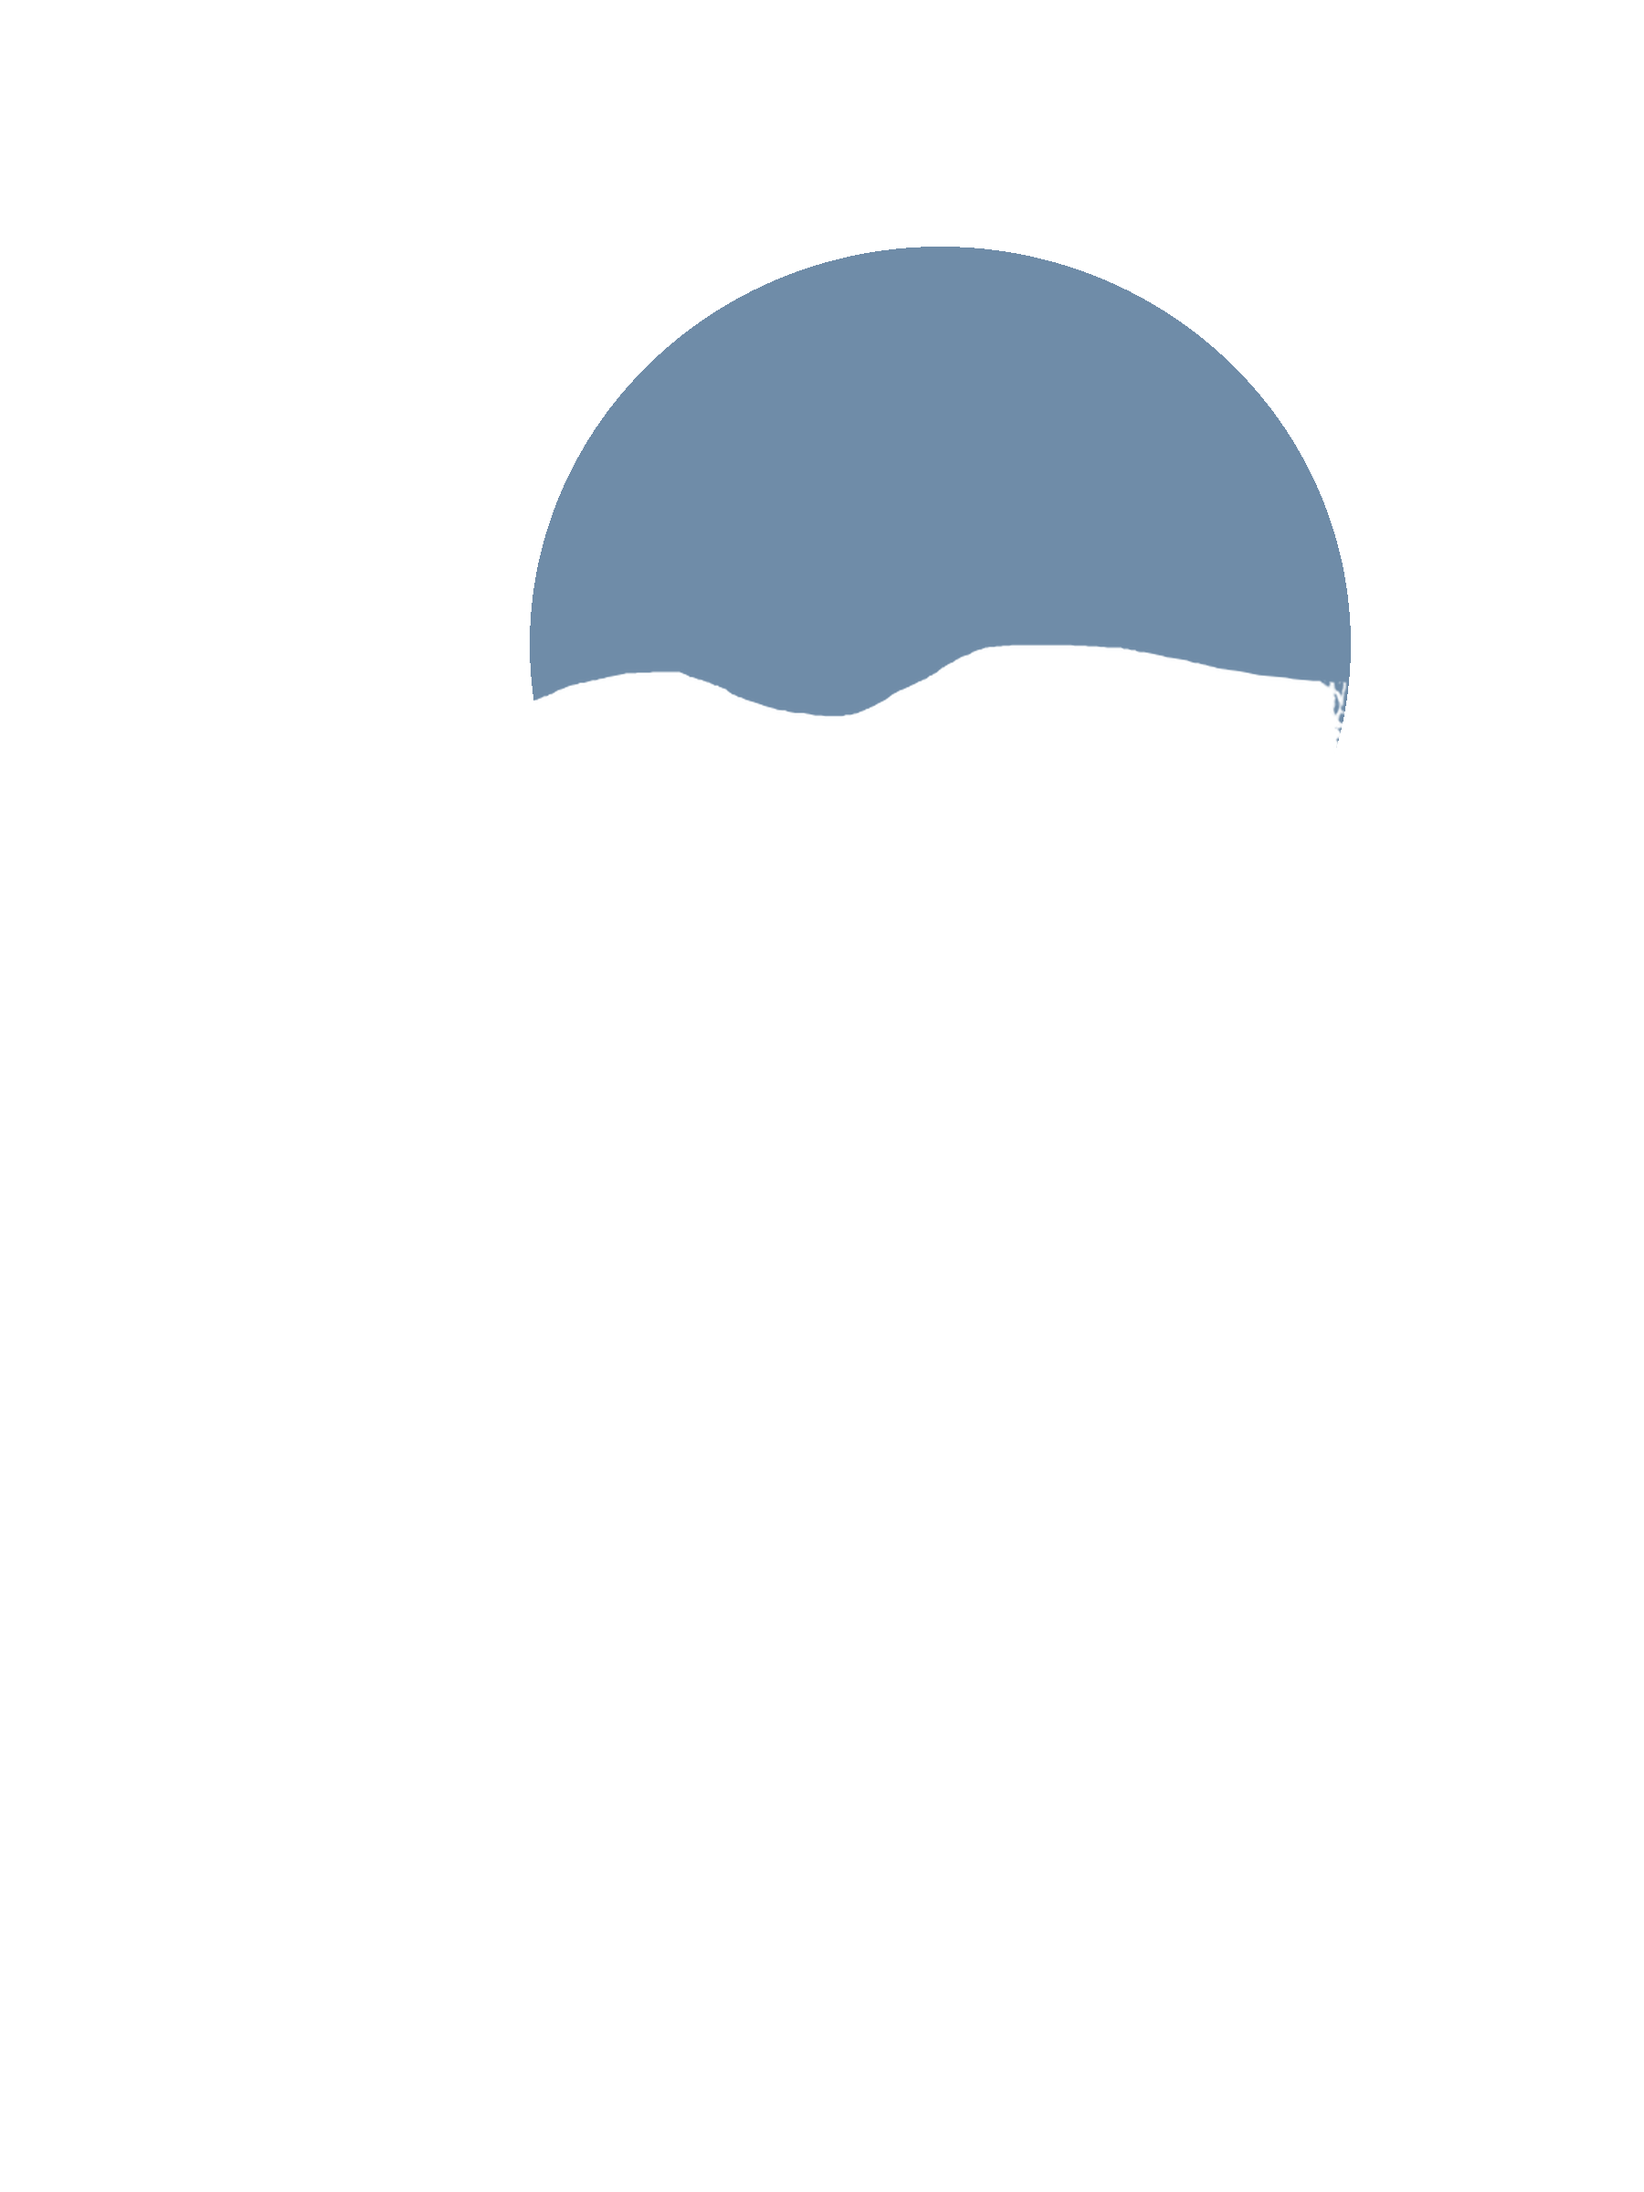
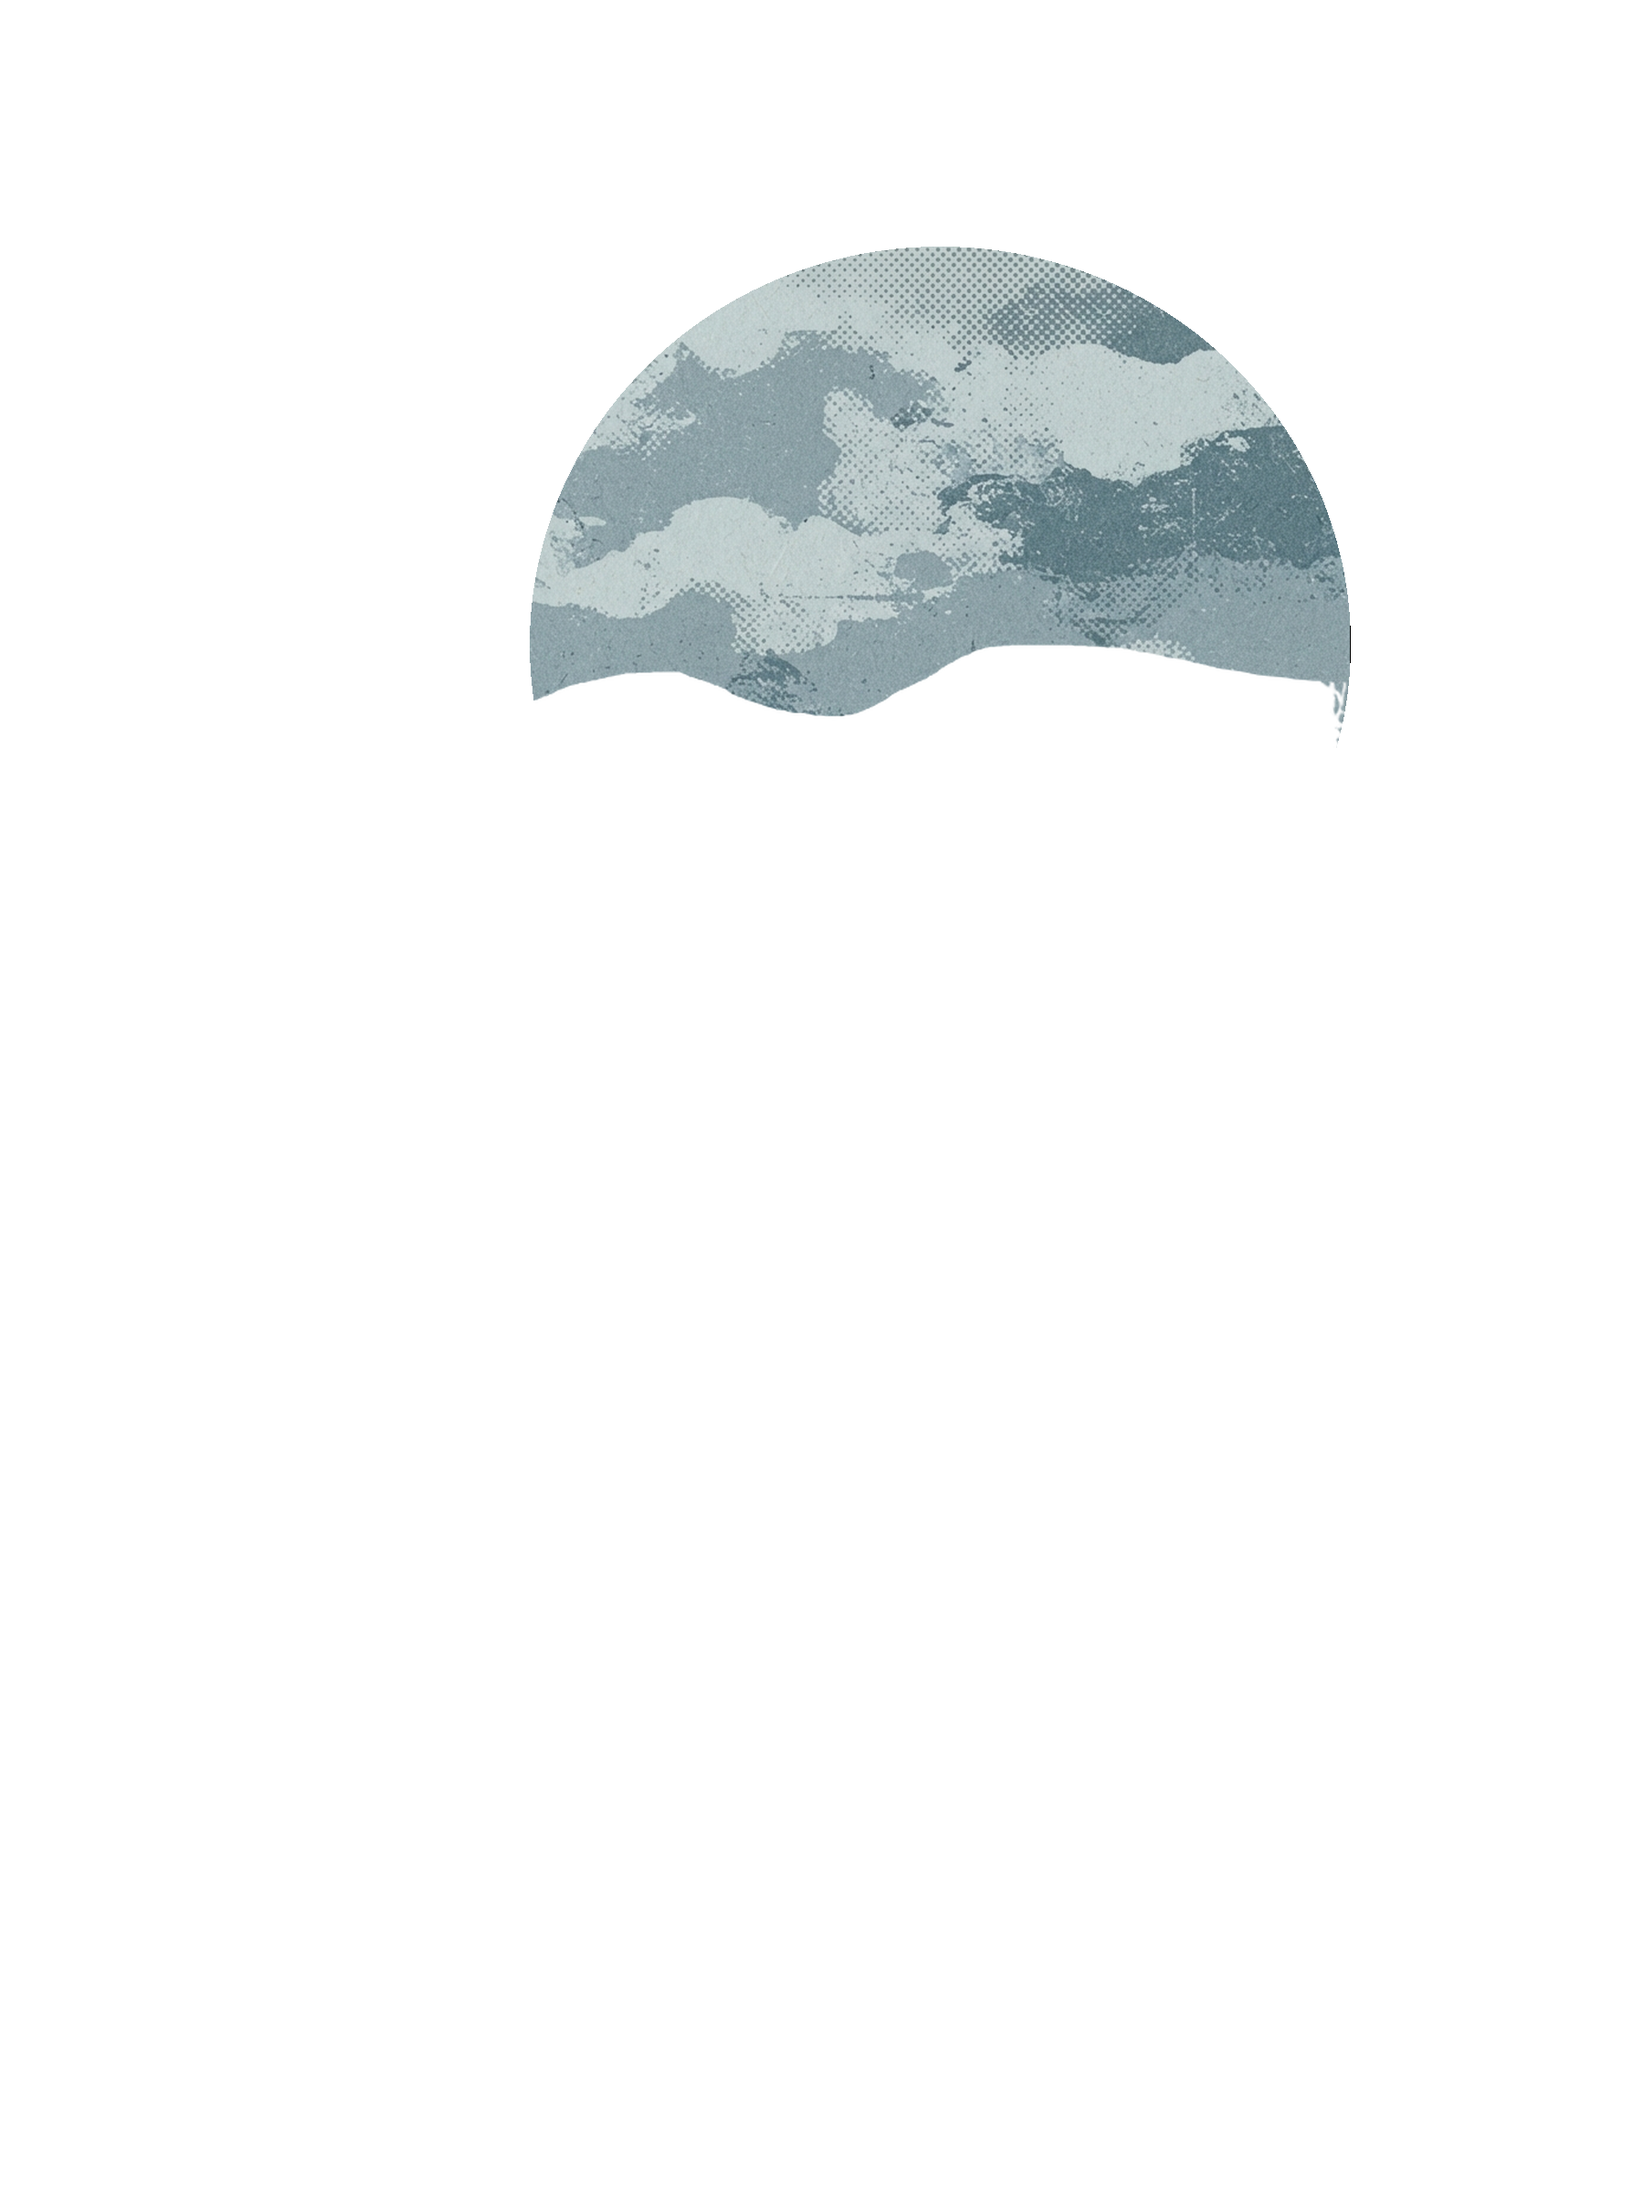
The sky is Kim's, and the head opens onto weather
A riso-style printed sky: flat cool tones, coarse halftone, paper grain,
slight misregistration. Nothing in it darker than 64/255 against the pen's
23, so the drawing stays the darkest thing on the page, and it is cool
throughout where all five crops are warm.

One manual step, recorded in compose-art.py because it has to be repeated
if the fill is ever regenerated: the model printed the sky as a block on a
sheet of cream paper, and a cream margin inside the dome reads as a ring
rather than as paper. `-trim` will not find it — the border has grain, so
it is not uniform. The hue does: the print is cool and the paper is warm,
so thresholding blue-minus-red isolates the block exactly. Inset 1% after,
because the block's own edge carries a lighter rim.

Head assets 448KB as AVIF against a 600KB budget. 35/35.

Changed region(s): [[0.3111, 0.0938, 0.84, 0.3438]]

diff --git a/hub/scripts/compose-art.py b/hub/scripts/compose-art.py
@@ -110,6 +110,15 @@ CLIPPED_BY = {"sky": "face"}
 #                         about being a shape rather than a drawing.
 SKY_FILL = "sky-fill.png"
 
+# The fill in `art/` is a riso-style sky from an image model, with one manual
+# step that has to be repeated if it is ever regenerated: **crop the border
+# off**. The model printed the sky as a block on a sheet of cream paper, and a
+# cream margin inside the dome reads as a ring, not as paper. `-trim` will not
+# find it — the border has grain, so it is not uniform. What does find it is the
+# hue: the print is cool and the paper is warm, so thresholding blue-minus-red
+# isolates the block exactly. Then inset ~1%, because the block's own edge
+# carries a lighter rim.
+
 # Flat on purpose. A gradient here would start to look like a decision, and the
 # only decision a placeholder is entitled to make is "there is colour behind the
 # cut".
